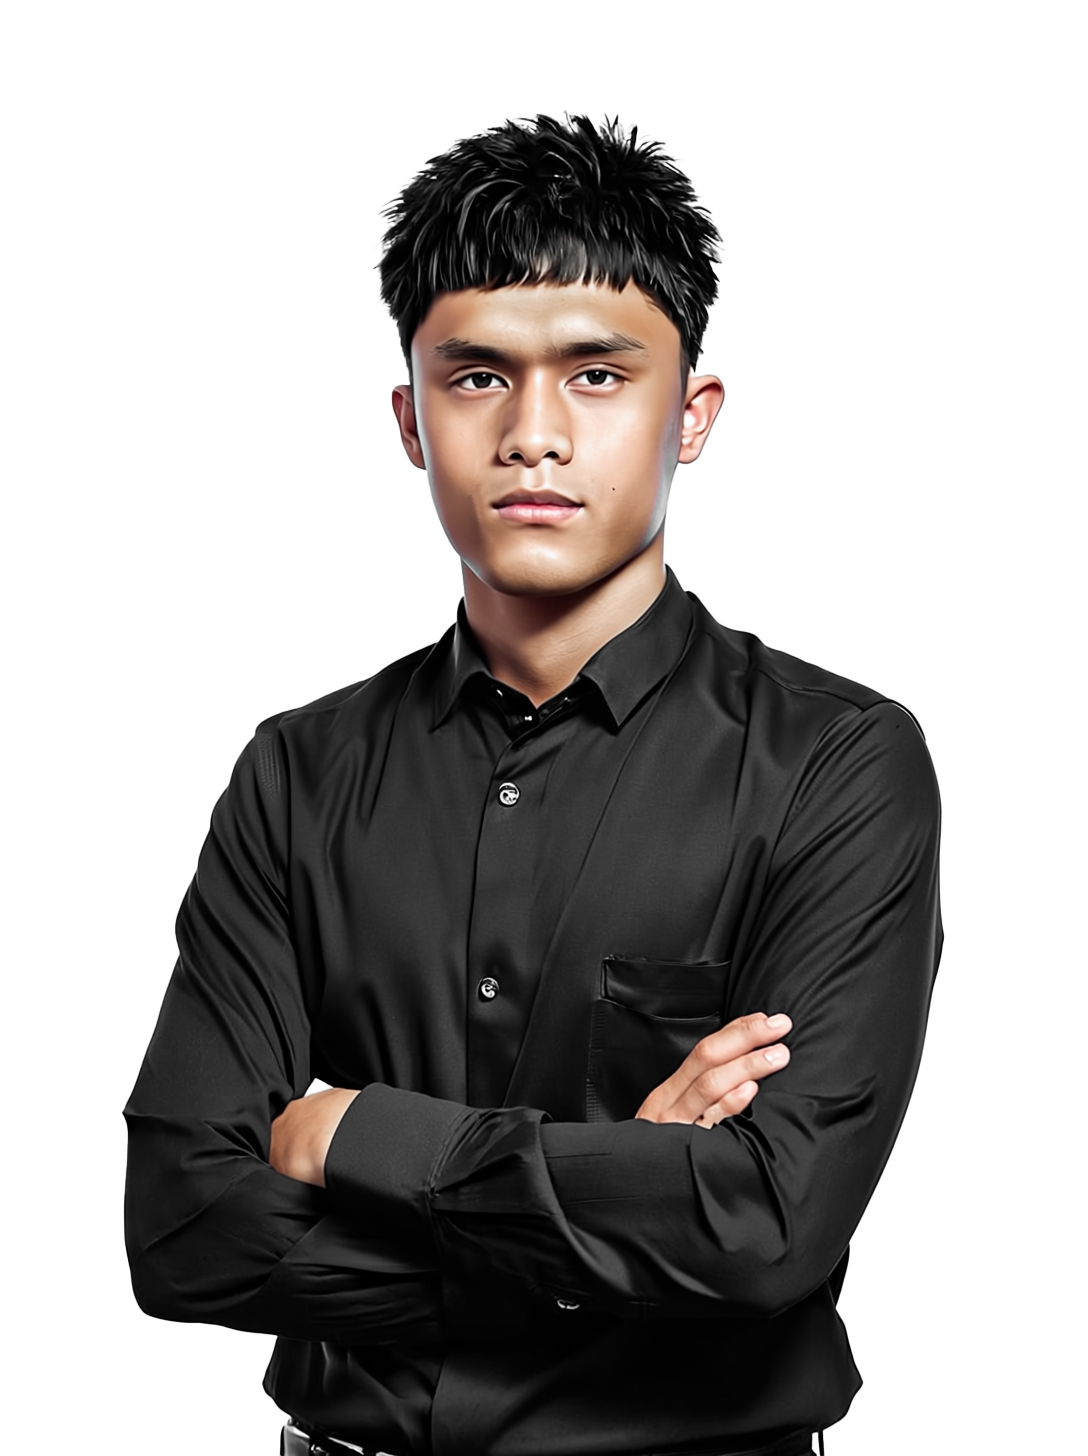
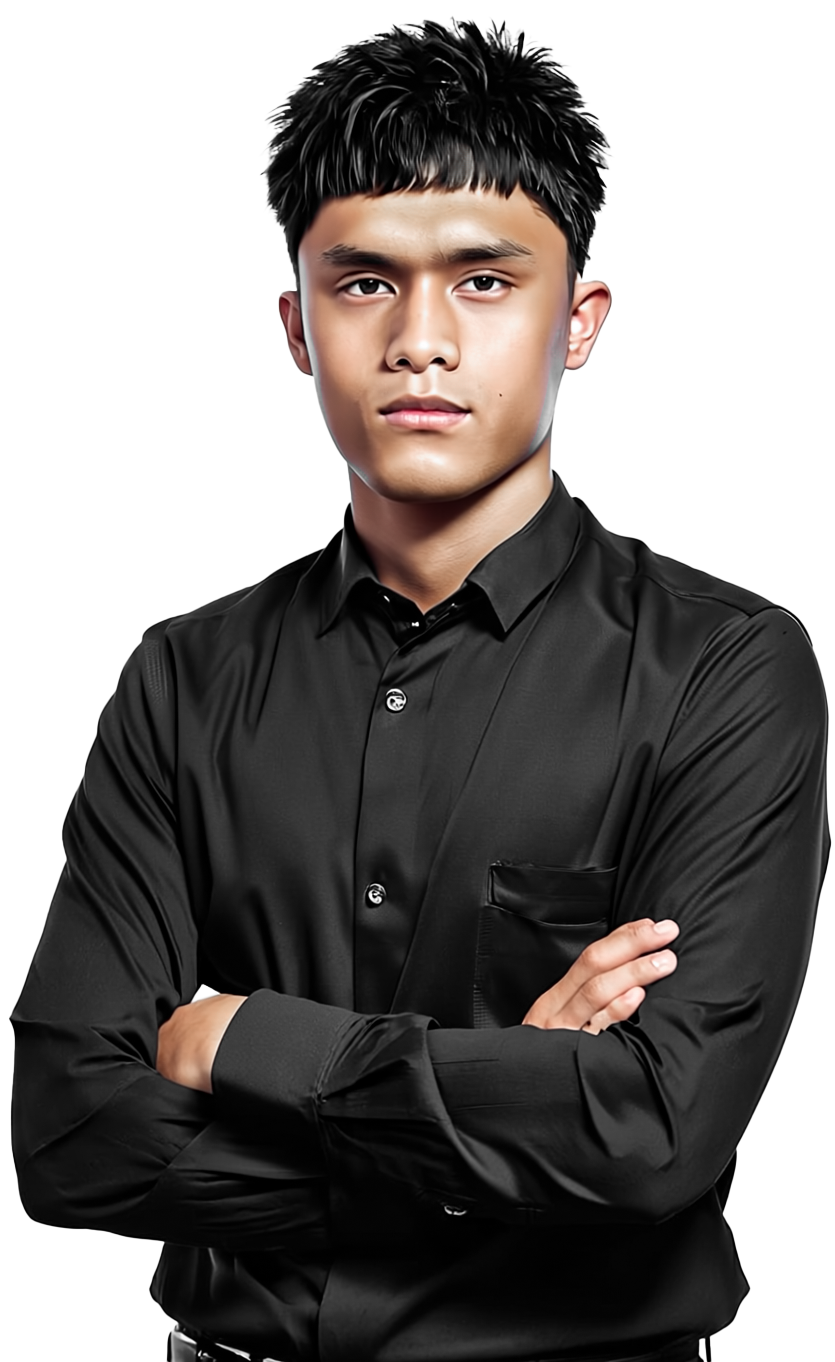
customize styling for about section

diff --git a/src/components/Nav.tsx b/src/components/Nav.tsx
@@ -2,7 +2,7 @@ import { useState, useEffect } from "react";
 
 export default function Nav() {
   const brandText: Array<string> = ["a", "e", "n", "d"];
-  const navLinks: Array<string> = ["about", "projects", "tech"];
+  const navLinks: Array<string> = ["about", "projects", "services"];
   const [prevScrollPos, setPrevScrollPos] = useState<number>(0);
   const [visible, setVisible] = useState<boolean>(true);
 
@@ -25,19 +25,19 @@ export default function Nav() {
 
   return (
     <nav
-      className={`fixed left-0 right-0 top-0 ${
+      className={`fixed left-0 right-0 top-0 backdrop-blur-2xl ${
         visible
           ? "translate-y-0 transition-transform"
           : "-translate-y-40 transition-transform"
       }`}
     >
-      <div className="flex items-center justify-between p-6">
+      <div className="flex items-center gap-4 justify-between m-4 mx-6 sm:items-center">
         <a
           className="flex items-end content-center gap-1 text-4xl uppercase transition-all ease-in sm:text-6xl h-min hover:gap-0 group"
           href="/"
         >
           {brandText.map((letter) => (
-            <p className="font-zbonus text-7xl max-h-11">{letter}</p>
+            <p className="font-zbonus text-4xl max-h-4 sm:text-7xl sm:max-h-11">{letter}</p>
           ))}
           <p className="text-sm font-zbonus duration-200 opacity-0 font-brand sm:text-lg group-hover:opacity-100">
             .dev
@@ -45,7 +45,7 @@ export default function Nav() {
         </a>
         <div id="links-container" className="flex flex-row gap-4 text-nowrap">
           {Object.values(navLinks).map((link) => (
-            <div className="text-xs uppercase transition-all sm:text-base group">
+            <div className="text-[10px] uppercase transition-all font-semibold sm:text-base group">
               <a href={`#${link}`}>{link}</a>
               <br />
               <hr className="w-0 transition-all duration-75 ease-in group-hover:w-full" />

diff --git a/src/components/About.tsx b/src/components/About.tsx
@@ -1,21 +1,27 @@
 import selfImage from "../assets/self.png";
 import "animate.css";
+import Stats from "./Stats";
 
 export default function About() {
   return (
-    <section id="about" className="border-b-2 overflow-clip ">
-      <div>
-        <h1 className="animate__animated animate__slideInLeft animate__slow">
-          Hi, I'm Arhon
-        </h1>
-        <p className="lead animate__animated animate__slideInRight animate__slow">
-          I'm a passionate developer with a love for creating dynamic and
-          engaging web applications. My journey in tech has been fueled by
-          curiosity and a desire to solve real-world problems through code.
+    <section id="about" className="flex flex-row gap-20 animate__animated animate__fadeIn animate__slow animate__">
+      <div className="max-w-xl">
+        <h1 className="">Hi, I'm Arhon</h1>
+        <p className="lead">
+          I build websites for people ready to own their digital presence. Solo
+          entrepreneurs, creators, and small businesses who've outgrown social
+          media pages and want something that's actually theirs—professional
+          enough to impress, personal enough to feel authentic.
         </p>
+        
       </div>
-      <div className="size-[50rem] -mt-40 animate__animated animate__fadeIn animate__slow animate__delay-2s -ml-30">
-        <img src={selfImage} />
+      <div className="group w-full rounded-4xl bg-gradient-to-b to-[#c9c9c9] relative z-0 from-[var(--foreground)] overflow-x-visible max-w-xs shadow-lg">
+        <div className="opacity-0 group-hover:opacity-100 absolute transition-all"><Stats /></div>
+        <img
+          className="max-w-sm place-self-center"
+          src={selfImage}
+          alt="a man wearing a dress shirt with his arms crossed"
+        />
       </div>
     </section>
   );

diff --git a/src/App.tsx b/src/App.tsx
@@ -2,20 +2,20 @@ import "./App.css";
 import Nav from "./components/Nav";
 import About from "./components/About";
 import Projects from "./components/Projects";
-import Tech from "./components/Tech";
+import Services from "./components/Services";
 import "animate.css";
 
 
 export default function App() {
 	return (
-		<div className="animate__animated animate__fadeIn">
-			<header className="">
+		<div>
+			<header className="relative z-50">
 				<Nav />
 			</header>
 			<main className="flex flex-col gap-4 mx-auto">
 				<About />
 				<Projects />
-				<Tech />
+				<Services />
 			</main>
 			<footer className="flex w-full items-center justify-center">
 				<p className="p-4 text-sm font-light text-center">

diff --git a/src/components/Stats.tsx b/src/components/Stats.tsx
@@ -1,0 +1,10 @@
+import { SiVite } from "@icons-pack/react-simple-icons"
+import "animate.css"
+
+export default function Stats() {
+  return (
+    <div className="p-4">
+    <SiVite size={50} className="text-red-700 animate-pulse"/>
+    </div>
+  )
+}

diff --git a/src/components/Services.tsx b/src/components/Services.tsx
@@ -1,0 +1,6 @@
+
+export default function Services() {
+	return (
+		<section id="services">Services</section>
+	)
+}
